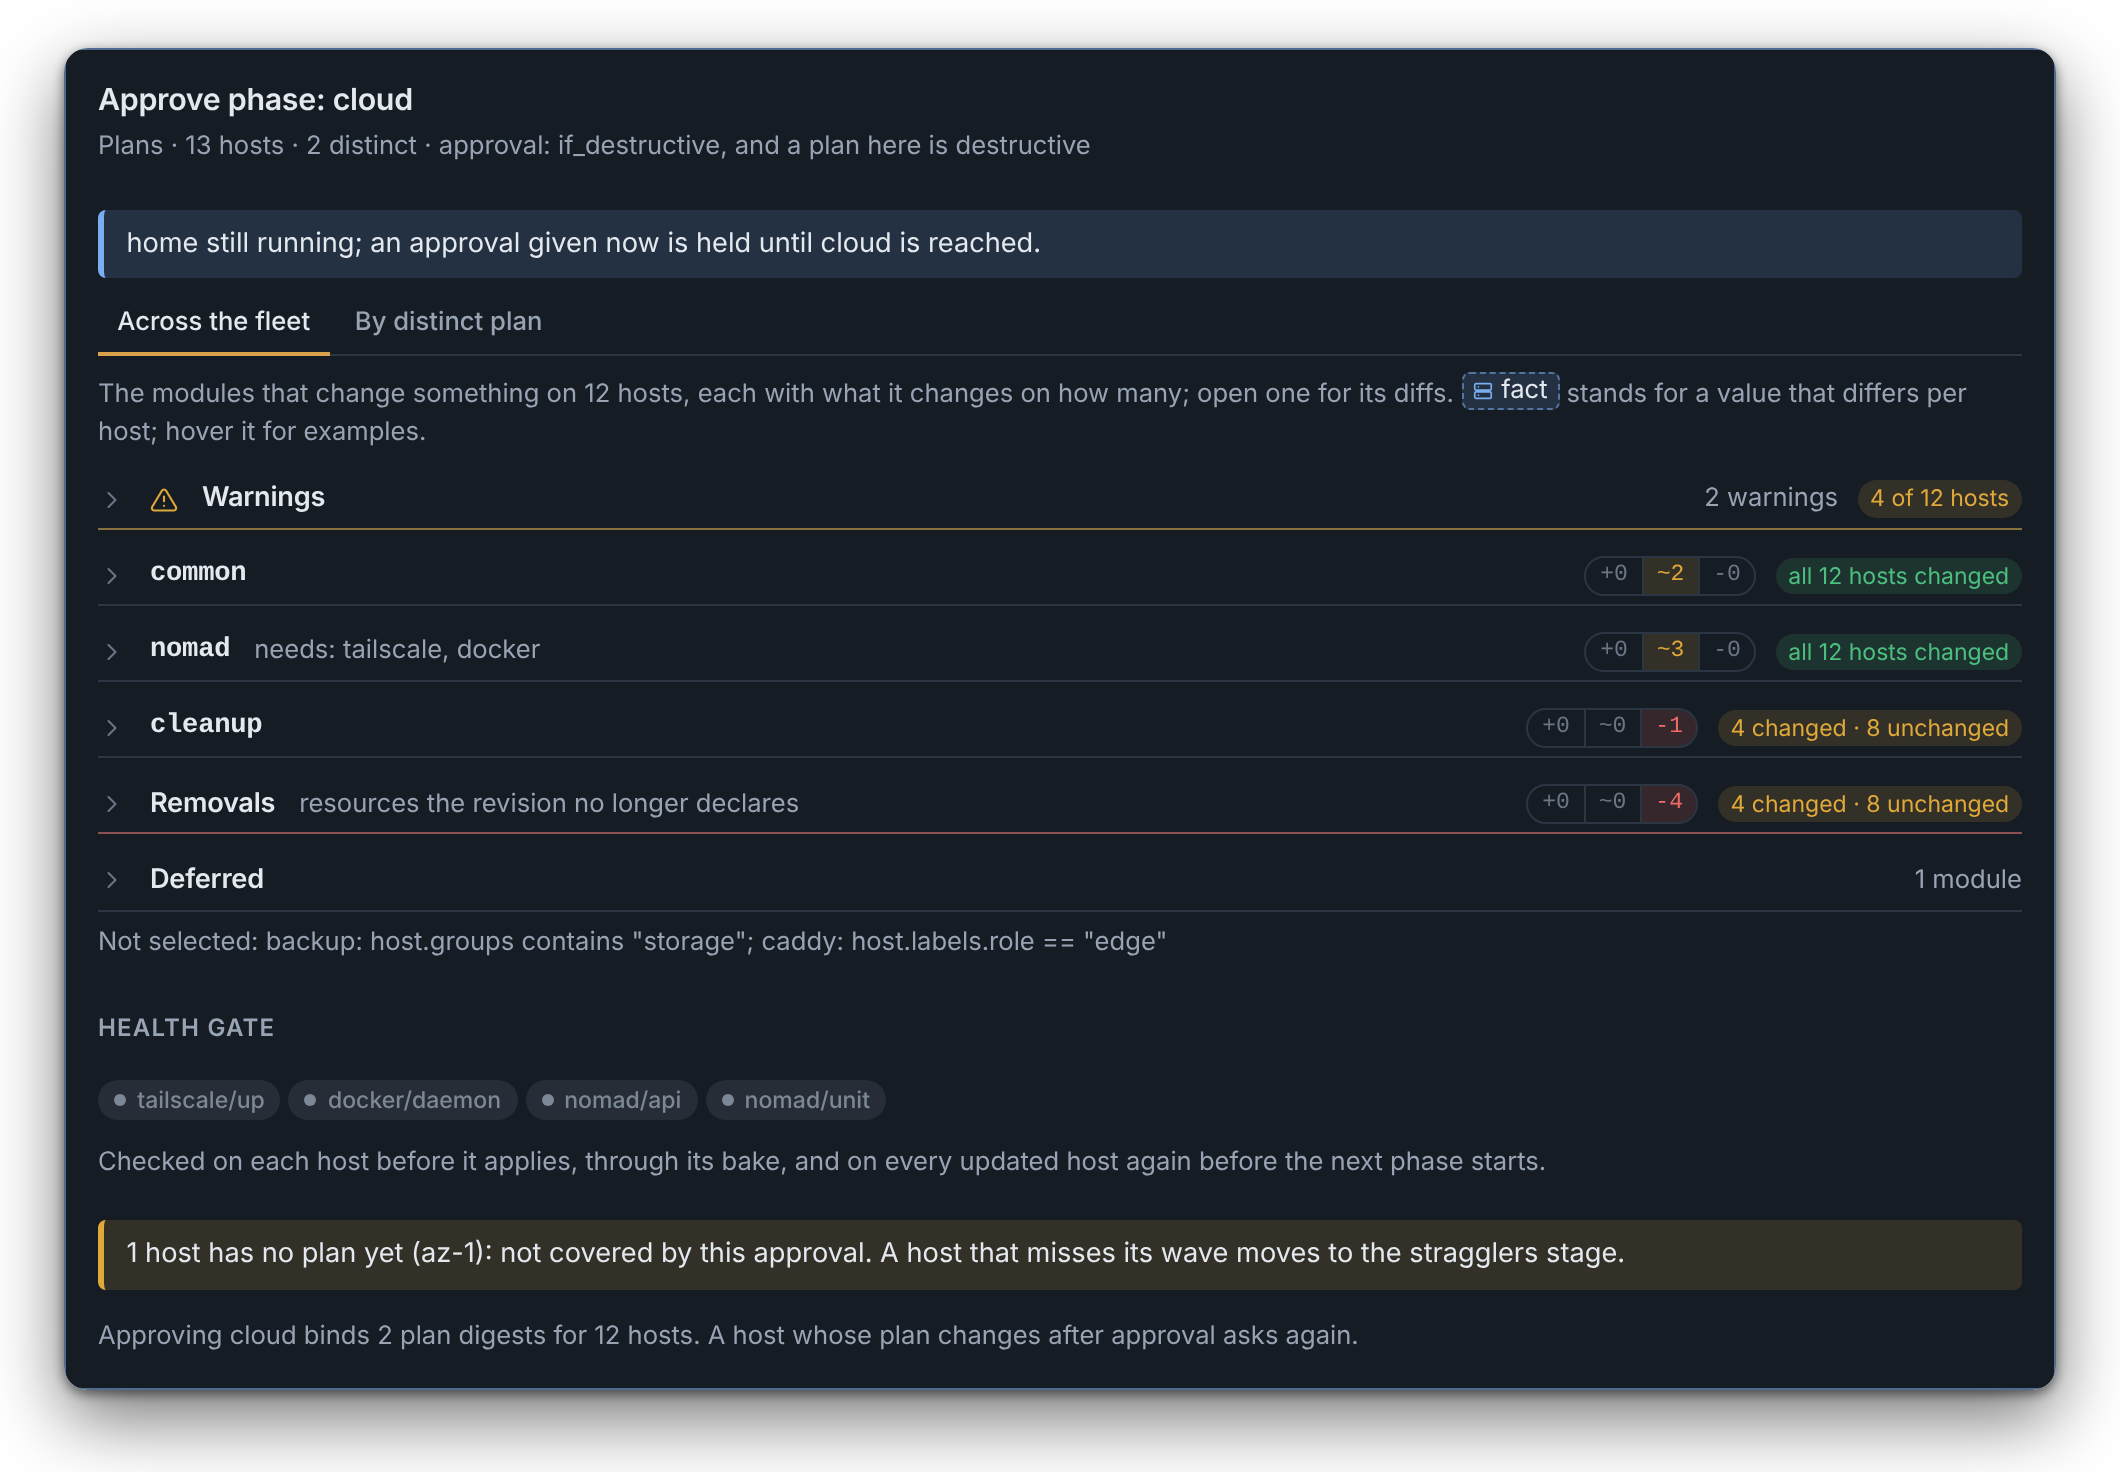
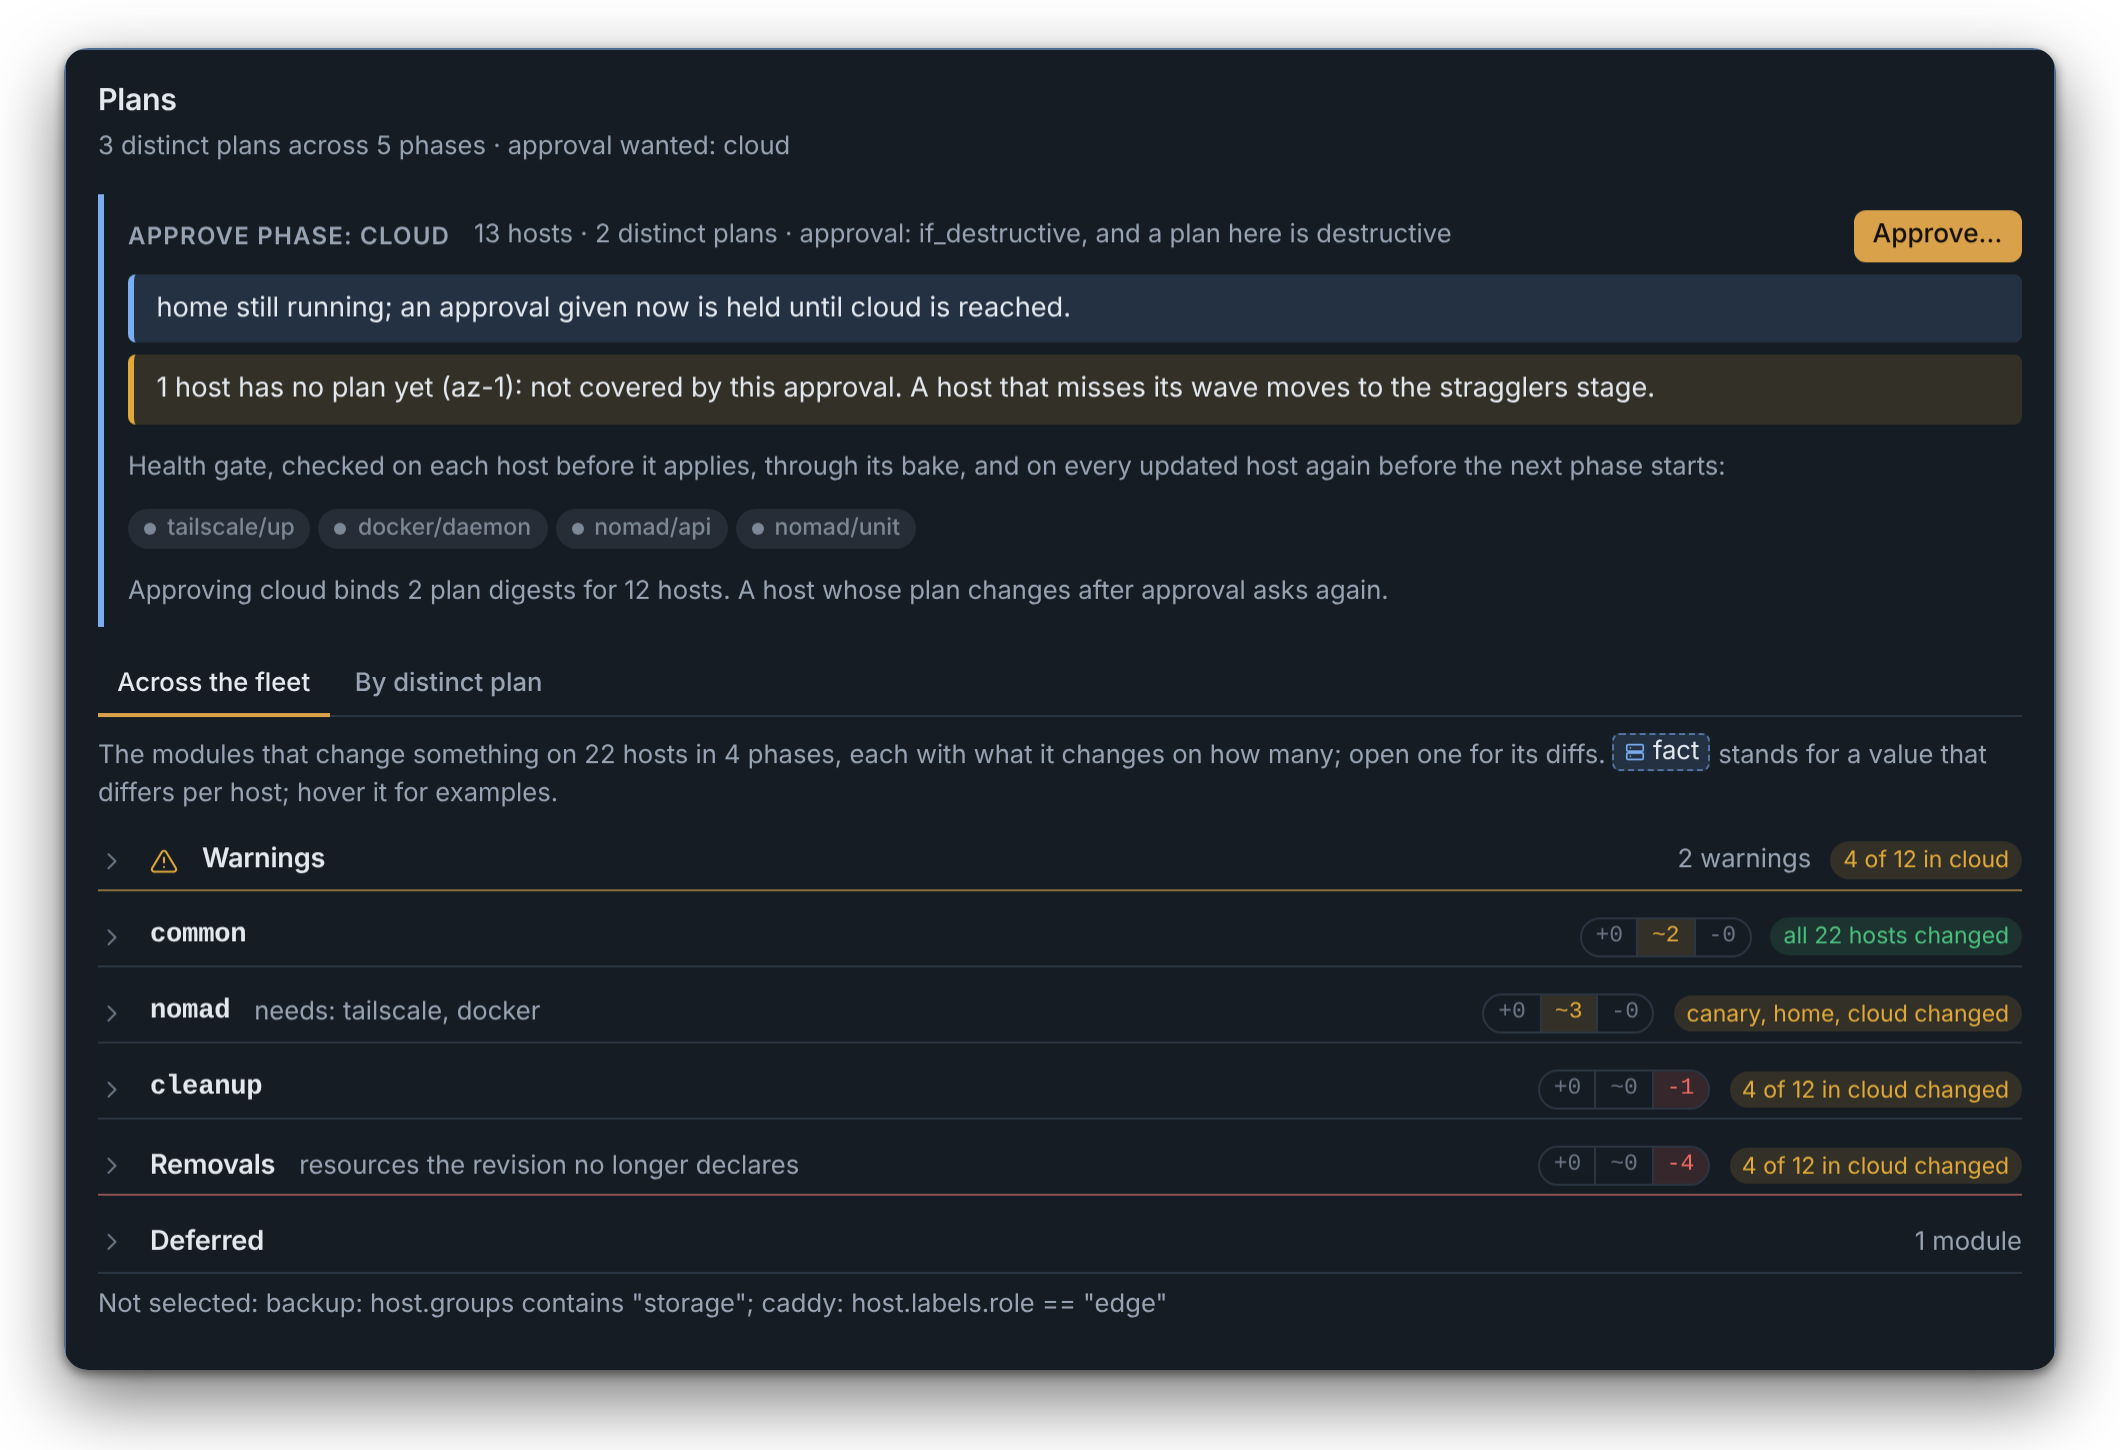
docs: describe the unified Plans panel and refresh its screenshot
Claude-Session: https://claude.ai/code/session_01WkowUugKJYPcgrZYfMFBco

Changed region(s): [[0.0311, 0.0621, 0.9651, 0.931], [0.0311, 0.6828, 0.2491, 0.7138]]

diff --git a/docs/operations/rollouts.md b/docs/operations/rollouts.md
@@ -73,20 +73,23 @@ appears. A phase without cross-layer `needs` is one stage, as before.
 ## 3. Review and approve
 
 A phase with `approval: required` (or `if_destructive`, when a plan removes or deletes something)
-waits at its gate. Its **Approve phase** panel shows what the phase will do:
+waits at its gate. The rollout's **Plans** panel shows what every phase will do in one view, headed
+by an **Approve phase** block for each phase that wants an approval:
 
-- **Across the fleet**: one entry per module, with what it changes on how many hosts. Values that
-  differ per host read as placeholders such as `«fact:host.id»`; hover one for examples.
-- **By distinct plan**: hosts with identical plans grouped together, destructive steps flagged.
-- **Health gate**: the checks that must hold on every updated host before the next phase starts.
+- **Approve phase**: the hosts and distinct plans the approval binds, hosts it leaves out, and the
+  health gate that must hold on every updated host before the next phase starts.
+- **Across the fleet**: one entry per module, with the phases (or hosts) it changes; hover for the
+  hosts by phase. Values that differ per host read as placeholders such as `«fact:host.id»`.
+- **By distinct plan**: hosts with identical plans grouped together by phase, destructive steps
+  flagged.
 
-<Screenshot name="rollout-approval" alt="The Approve phase panel: the fleet-wide plan by module, and the health gate" />
+<Screenshot name="rollout-approval" alt="The Plans panel: an Approve phase block, then the plan across every phase by module" />
 
 Secrets never appear in a plan: a rotated secret shows as a token such as
 `«secret:nomad_server@3f9a»`, and a template that uses it as the lines it changes.
 
-Approve from the split button at the top right of the rollout (or of the overview's latest rollout
-card). The dialog names the hosts, the destructive steps and the plan digests it binds; destructive
+Approve from the phase's **Approve…** button, or the split button at the top right of the rollout
+(or of the overview's latest rollout card) for the phase the rollout waits on. The dialog names the hosts, the destructive steps and the plan digests it binds; destructive
 steps must be acknowledged first, and the note goes into the audit log.
 
 <Screenshot name="rollout-approve" alt="The approval dialog with its summary, destructive-step acknowledgement and audit note" />
